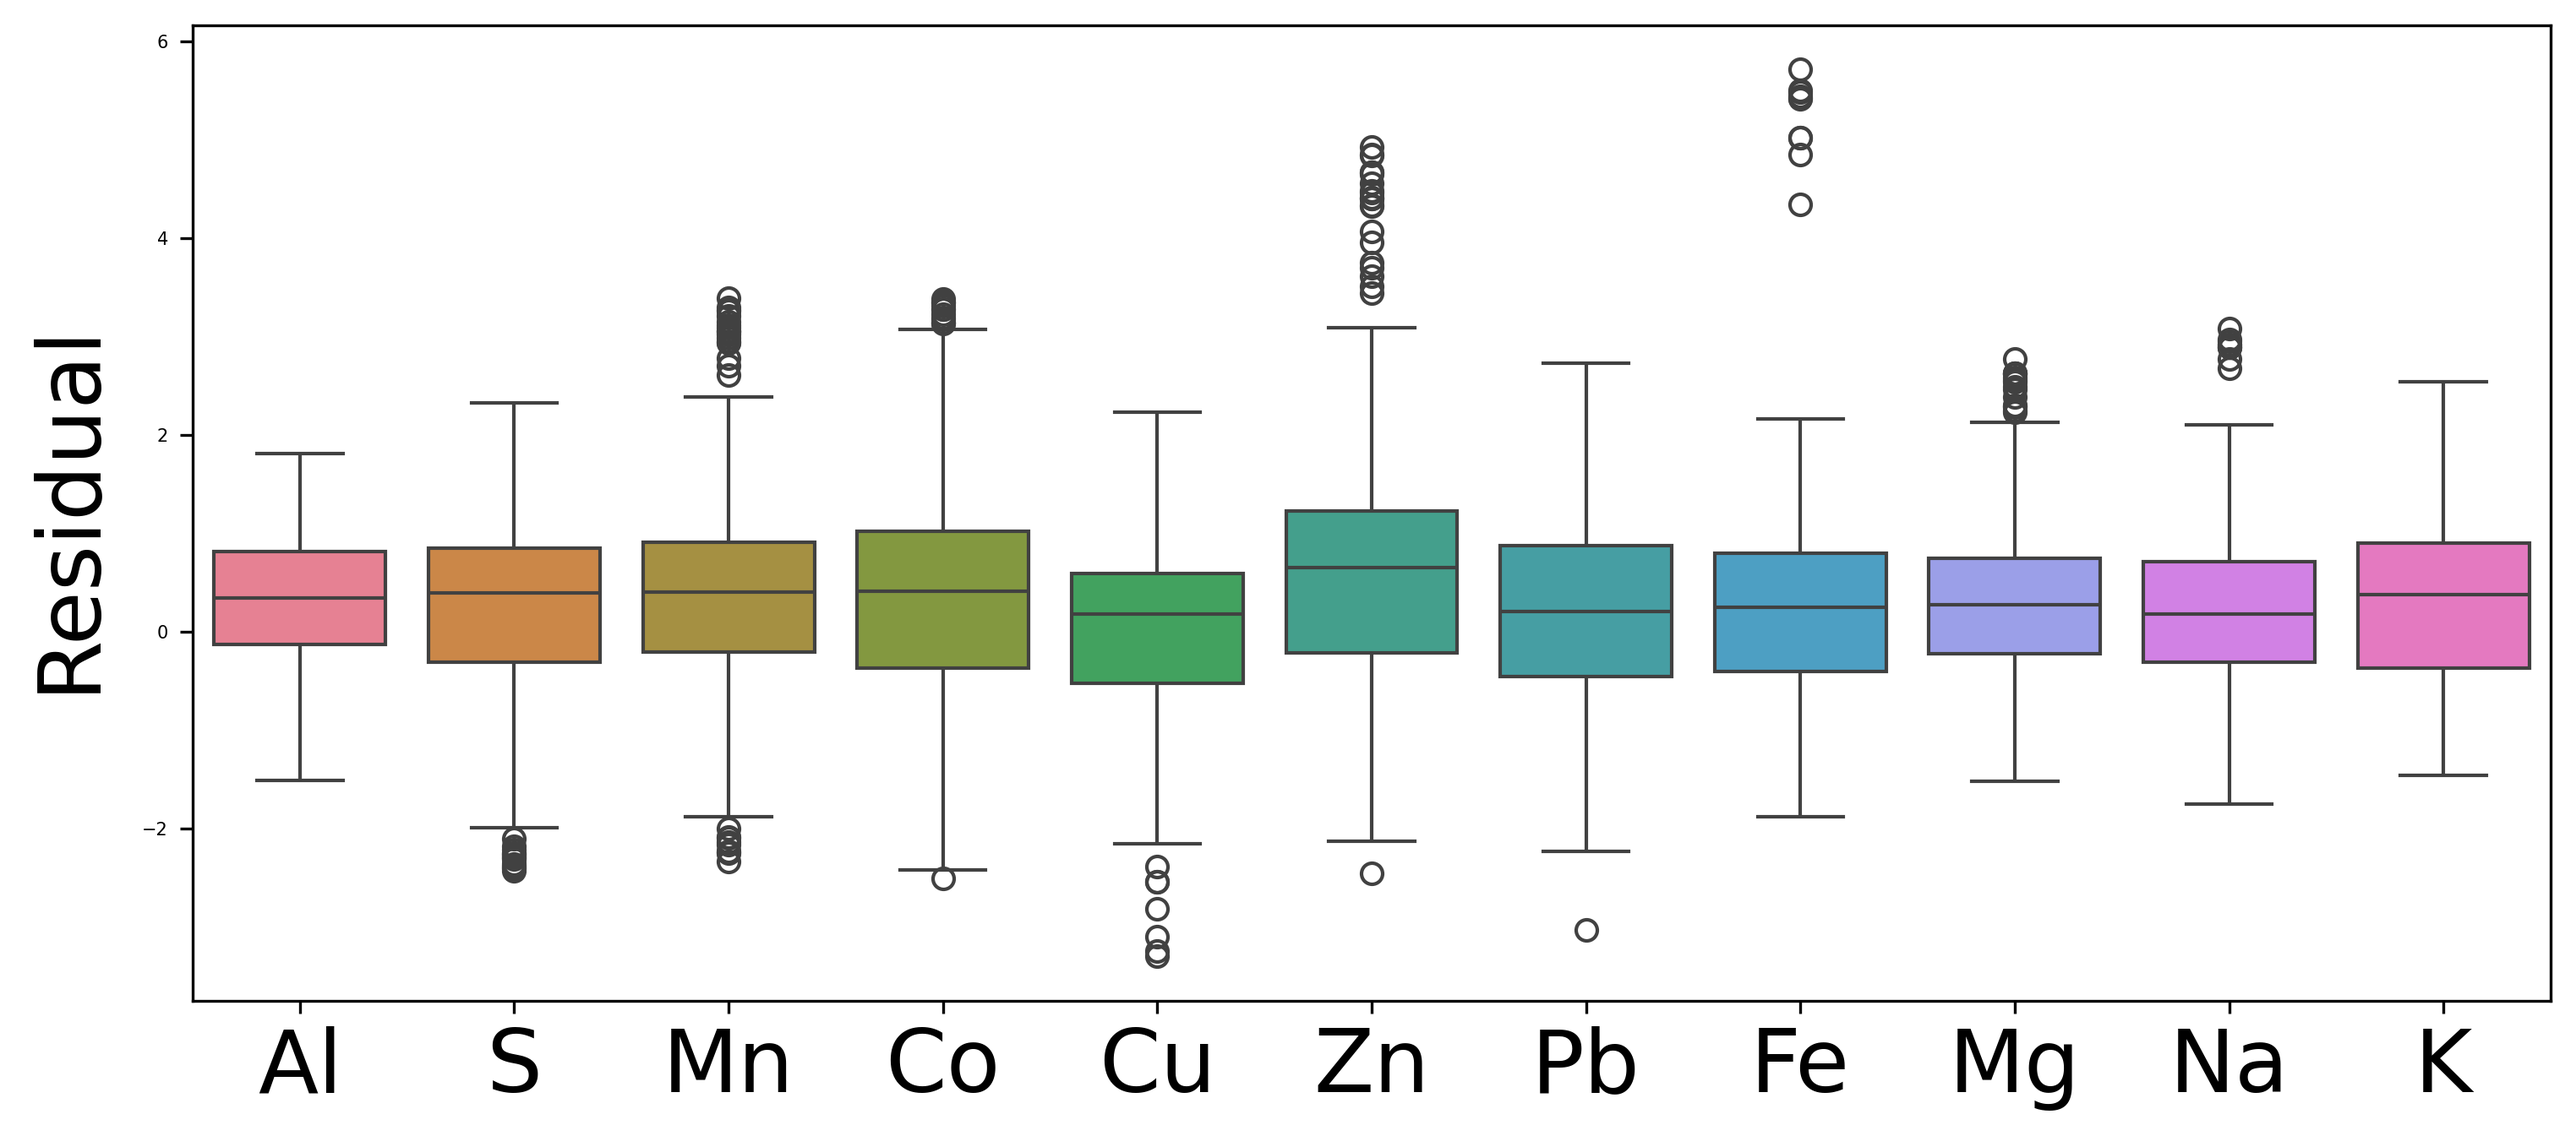
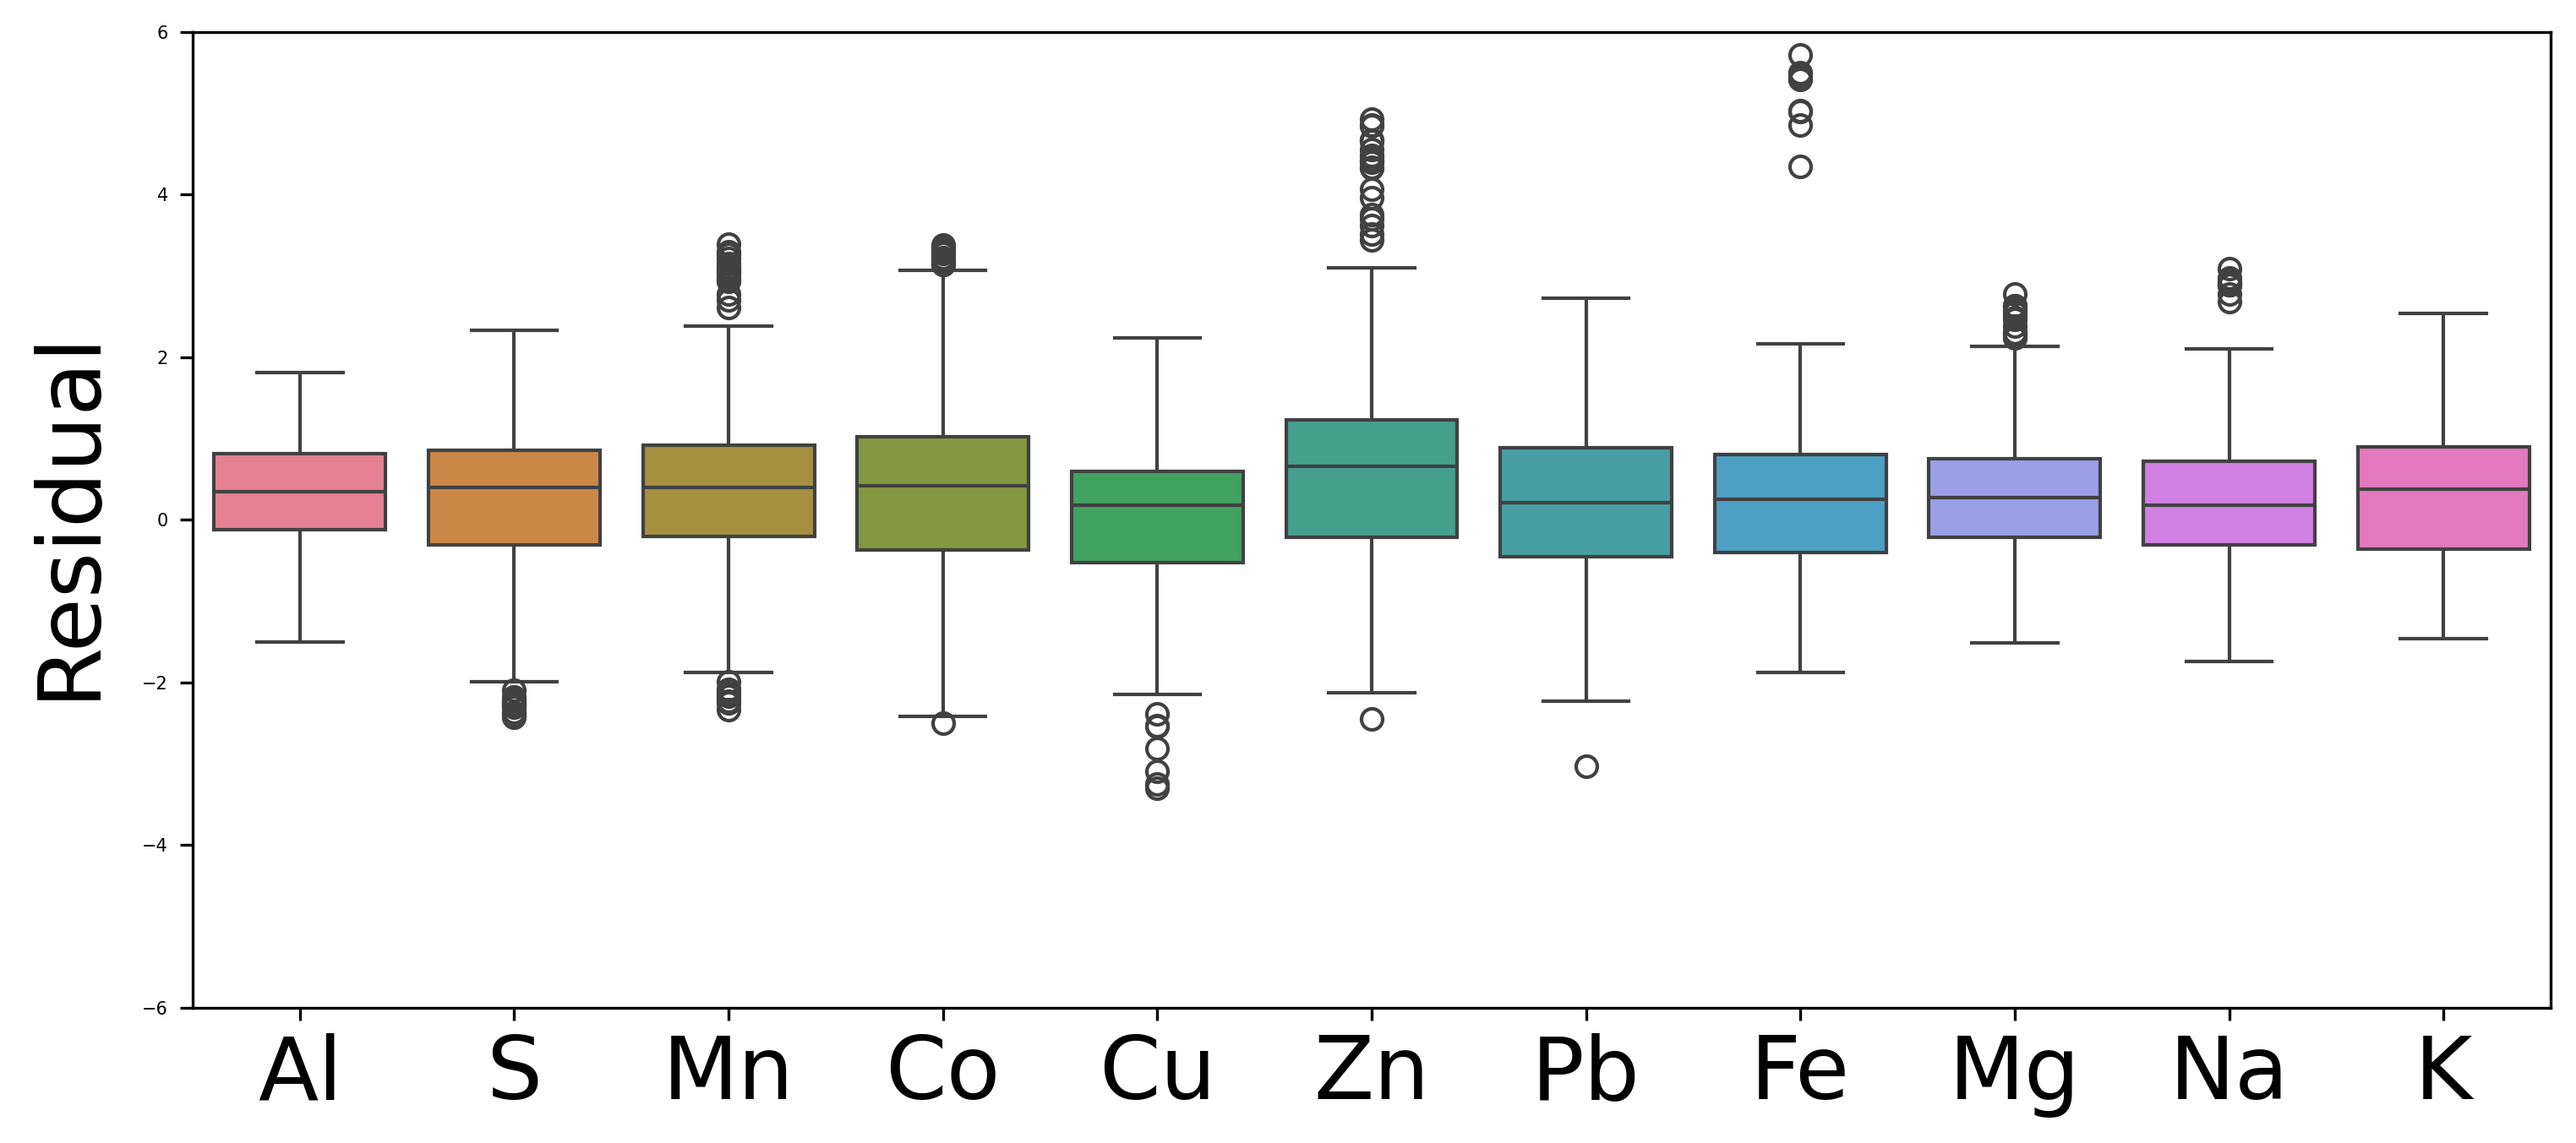
Added ylim for box plots and violin plots

diff --git a/src/train_and_evaluate.py b/src/train_and_evaluate.py
@@ -530,6 +530,7 @@ def plot_error_boxplot(outputs, labels, elements_to_keep, dims_to_keep='all', fi
     fig.text(0.07, 0.5, ylabel, va='center', rotation='vertical', size=25)
     ax.set_xticklabels(elements_to_keep, size=25)
     ax.tick_params(axis='y', labelsize=5)
+    plt.ylim(-6, 6)
 
     if path_to_save:
         plt.savefig(path_to_save+'error_boxplot.png', dpi=300, bbox_inches="tight")
@@ -555,6 +556,7 @@ def plot_error_violinplot(outputs, labels, elements_to_keep, dims_to_keep='all',
     fig.text(0.07, 0.5, ylabel, va='center', rotation='vertical', size=25)
     ax.set_xticklabels(elements_to_keep, size=25)
     ax.tick_params(axis='y', labelsize=5)
+    plt.ylim(-6, 6)
 
     if path_to_save:
         plt.savefig(path_to_save+'error_violinplot.png', dpi=300, bbox_inches="tight")
